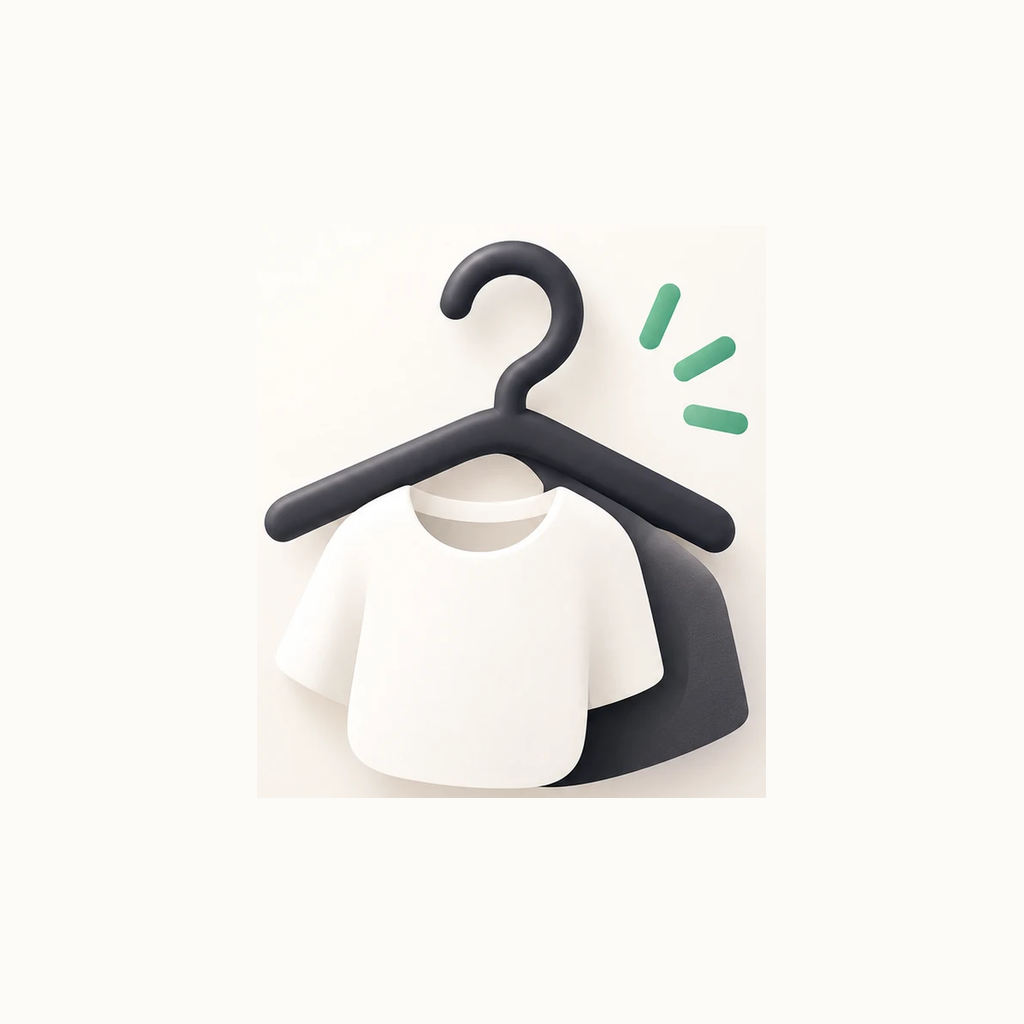
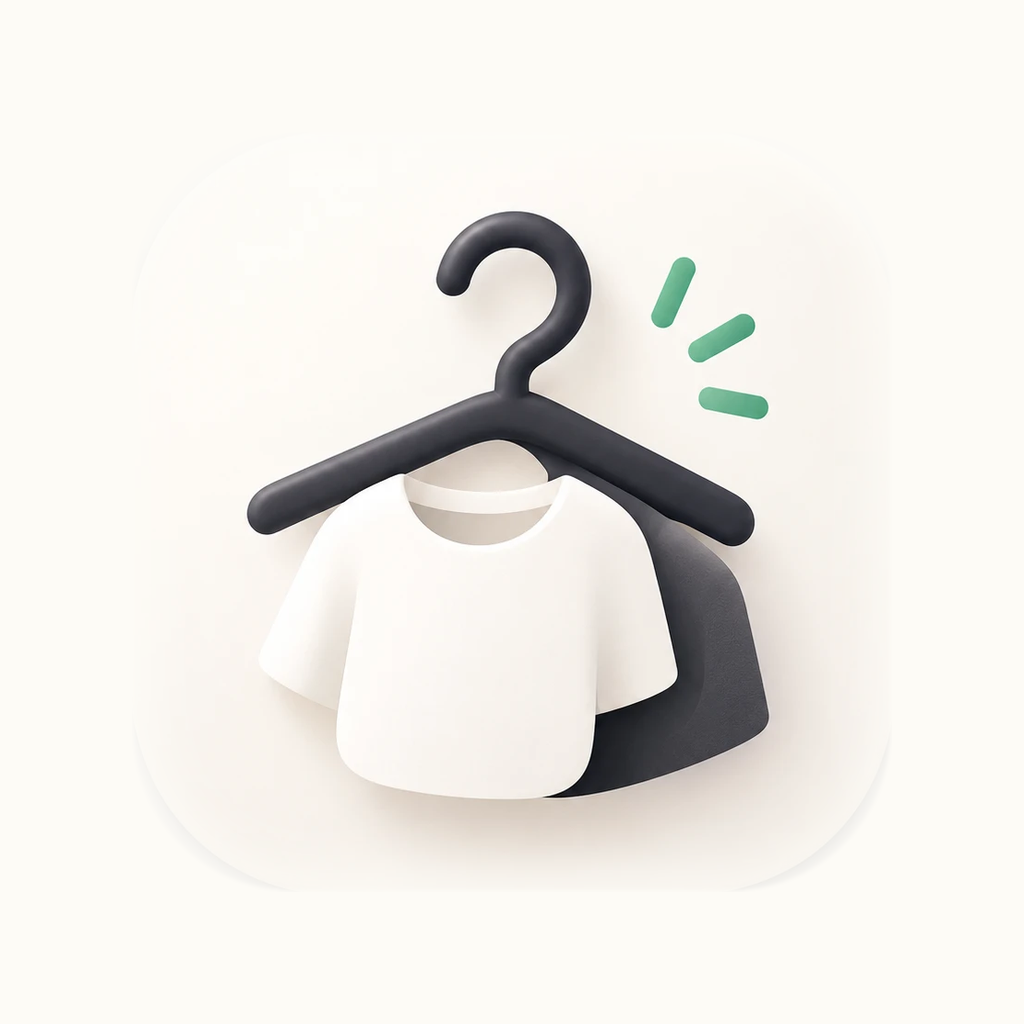
새 앱 아이콘 적용, 정책 웹페이지 생성, Play Console 앱 생성 기록

Changed region(s): [[0.2188, 0.1875, 0.8125, 0.8438], [0.3125, 0.5938, 0.375, 0.75]]

diff --git a/docs/legal/privacy.html b/docs/legal/privacy.html
@@ -1,0 +1,37 @@
+<!doctype html>
+<html lang="ko">
+<head>
+<meta charset="utf-8">
+<meta name="viewport" content="width=device-width, initial-scale=1">
+<title>개인정보 처리방침 · WearLog</title>
+<style>
+  :root { color-scheme: light dark; --bg: #F8F7F4; --card: #fff; --text: #1A1A1F; --sub: #6B6B76; --accent: #1A1A1A; }
+  @media (prefers-color-scheme: dark) { :root { --bg: #111114; --card: #1C1C21; --text: #F2F2F5; --sub: #A0A0AB; --accent: #F2F2F5; } }
+  body { margin: 0; background: var(--bg); color: var(--text); font: 16px/1.65 -apple-system, 'Apple SD Gothic Neo', 'Pretendard', 'Malgun Gothic', sans-serif; }
+  main { max-width: 720px; margin: 0 auto; padding: 32px 16px 64px; }
+  h1 { font-size: 26px; margin: 0 0 4px; } .date { color: var(--sub); font-size: 14px; margin: 0 0 24px; }
+  section { background: var(--card); border-radius: 16px; padding: 16px 20px; margin: 0 0 12px; }
+  h2 { font-size: 17px; margin: 0 0 6px; } p { margin: 0; word-break: keep-all; overflow-wrap: anywhere; }
+  a { color: var(--accent); } .brand { color: var(--accent); font-weight: 800; letter-spacing: -0.02em; }
+</style>
+</head>
+<body><main>
+<p class="brand">WearLog</p>
+<h1>개인정보 처리방침</h1>
+<p class="date">시행일 2026-10-28</p>
+<section><h2>요약</h2><p>WearLog의 옷장·코디·착용 기록·취향은 모두 이 기기 안에만 저장돼요. 날씨를 불러올 때는 약 5km 단위 격자 번호만, 커뮤니티에 로그인하거나 코디를 직접 공개할 때만 아래 정보가 서버로 가요. 로그인하지 않으면 계정 정보는 어디에도 저장되지 않아요.</p></section>
+<section><h2>1. 기기 안에서만 처리되는 정보</h2><p>옷 사진(앱이 만든 축소·재인코딩 사본), 옷 이름·카테고리·색·브랜드·사이즈·가격·구매일·메모, 코디와 캔버스 배치, 착용 기록과 착용당 비용(CPW), 취향 설정, 직접 고른 지역은 이 기기의 앱 저장소에만 있어요. 사진첩의 원본 사진은 읽기만 하고 바꾸거나 지우지 않으며, 사진의 촬영 위치(GPS) 정보는 저장하지 않아요. 다른 앱에서 "공유 → WearLog"로 받은 사진·링크도 등록 화면에만 쓰이고 서버로 보내지 않아요.</p></section>
+<section><h2>2. 위치와 날씨</h2><p>"내 주변 날씨"를 누를 때만 현재 위치를 한 번 읽어요(백그라운드 위치는 요청하지 않아요). 위치는 기기 안에서 기상청 격자 번호(약 5km 단위)로 바꾼 뒤 바로 버리고, 날씨 서버에는 격자 번호만 보내요. 날씨 서버는 이 요청을 기상청 단기예보 서비스에 전달하며, 위치·격자 번호를 사용자와 연결해 저장하지 않아요. 지역을 직접 고르면 위치를 읽지 않아요.</p></section>
+<section><h2>3. 쇼핑몰 링크로 가져오기</h2><p>상품 링크를 붙여 넣거나 공유하면 기기가 그 쇼핑몰 페이지와 상품 사진을 직접 요청해 이름·브랜드·가격을 읽어요. WearLog 서버를 거치지 않으며, 이때 쇼핑몰은 일반 웹 접속과 같은 정보(IP 주소 등)를 받아요. 가져온 사진은 개인 옷장 기록용으로 기기에만 저장돼요.</p></section>
+<section><h2>4. 커뮤니티 이용 시 처리하는 개인정보</h2><p>· 이메일 로그인: 이메일 주소<br>· 카카오 로그인: 카카오 회원 식별자, 닉네임, 프로필 사진(선택), 카카오계정 이메일(선택)<br>· Google 로그인: Google 계정 식별자, 이메일 주소, 이름·프로필 사진 주소<br>· 공통: 공개 핸들, 사용자가 공개를 확정한 사진의 공유용 사본(메타데이터 제거·축소본)과 미리보기, 스타일 태그·상황, 원하면 대략적인 날씨 문구(지역 제외), 하트, 신고, 차단 기록<br>· 자동 생성: 로그인 보안을 위한 접속 기록(IP 주소, 접속 시각)<br>소셜 로그인으로 받은 이름·프로필 사진은 인증 서버에만 저장되고 앱에 공개되지 않아요. 게시물에는 @핸들만 표시돼요. 옷장·착용 기록·취향은 로그인해도 업로드되지 않아요.</p></section>
+<section><h2>5. 이용 목적</h2><p>회원 식별과 로그인, 코디 게시·하트·신고·차단 기능 제공, 운영 정책 위반 대응과 분쟁 처리, 서비스 보안 유지, 날씨 기반 코디 추천.</p></section>
+<section><h2>6. 보유 및 파기</h2><p>계정을 삭제하면 게시물·공유 이미지·하트·차단 기록·프로필·로그인 계정을 지체 없이 삭제해요. 내가 낸 신고는 운영 기록으로 남기되 작성자 정보는 지워요. 접속 기록은 서버 제공자의 로그 보관 기간이 지나면 자동 삭제돼요. 기기 안의 데이터는 설정 &gt; 기기 데이터 전체 삭제로 언제든 지울 수 있고, 앱을 삭제해도 지워져요.</p></section>
+<section><h2>7. 처리 위탁 및 국외 이전</h2><p>· 수탁자: Supabase, Inc.(미국) — 데이터베이스·인증·이미지 저장·날씨 중계 서버 운영. <a href="https://supabase.com/privacy">https://supabase.com/privacy</a><br>· 저장 위치: 대한민국 서울(AWS ap-northeast-2)<br>· 이전 일시·방법: 로그인·게시·하트·신고 등 커뮤니티 기능이나 날씨 불러오기를 쓸 때마다 암호화된 네트워크로 전송<br>· 이전 항목: 4번의 커뮤니티 항목, 날씨 요청의 격자 번호<br>· 보유 기간: 계정 삭제 시까지(날씨 요청은 저장하지 않음)<br>· 인증 메일 발송: Supabase, Inc. (기본 메일 발송), 미국 — 이메일 로그인 시 이메일 주소와 인증 코드<br>거부 방법: 커뮤니티에 로그인하지 않고 날씨를 직접 고르면 아무 정보도 전송되지 않으며, 옷장·코디·기록은 그대로 쓸 수 있어요.</p></section>
+<section><h2>8. 만 14세 미만 아동</h2><p>커뮤니티 계정은 만 14세 이상만 만들 수 있어요. 만 14세 미만은 로그인할 수 없고, 계정이 필요 없는 기기 안 기능만 쓸 수 있어요. 만 14세 미만의 계정을 알게 되면 삭제해요.</p></section>
+<section><h2>9. 이용자의 권리</h2><p>언제든 개인정보 열람·정정·삭제·처리 정지를 요구할 수 있어요. 앱에서 게시물 삭제(설정 &gt; 내 게시물), 계정 삭제(커뮤니티 계정 &gt; 계정 삭제), 기기 데이터 삭제(설정)를 바로 할 수 있고, 그 밖의 요청은 아래 연락처로 보내 주세요.</p></section>
+<section><h2>10. 안전성 확보 조치</h2><p>모든 서버 통신은 HTTPS로 암호화해요. 데이터베이스는 행 단위 접근 제어로 본인 데이터만 수정할 수 있게 했어요. 비밀번호를 쓰지 않는 로그인 방식이라 비밀번호를 저장하지 않아요. 공개되는 사진은 원본이 아니라 촬영 위치 등 메타데이터를 제거하고 다시 만든 사본이에요. 기상청 서비스 키 등 비밀 값은 서버에만 두고 앱에 넣지 않아요.</p></section>
+<section><h2>11. 개인정보 보호책임자</h2><p>Forest_LIM · dlacoaud96@gmail.com</p></section>
+<section><h2>12. 권익 침해 구제</h2><p>개인정보 침해 상담·신고: 개인정보침해신고센터(국번 없이 118, privacy.kisa.or.kr), 개인정보분쟁조정위원회(1833-6972, www.kopico.go.kr)</p></section>
+<section><h2>13. 변경</h2><p>내용이 바뀌면 앱과 이 페이지에 시행일과 함께 알려요.</p></section>
+</main></body>
+</html>

diff --git a/docs/legal/terms.html b/docs/legal/terms.html
@@ -1,0 +1,31 @@
+<!doctype html>
+<html lang="ko">
+<head>
+<meta charset="utf-8">
+<meta name="viewport" content="width=device-width, initial-scale=1">
+<title>이용약관 · WearLog</title>
+<style>
+  :root { color-scheme: light dark; --bg: #F8F7F4; --card: #fff; --text: #1A1A1F; --sub: #6B6B76; --accent: #1A1A1A; }
+  @media (prefers-color-scheme: dark) { :root { --bg: #111114; --card: #1C1C21; --text: #F2F2F5; --sub: #A0A0AB; --accent: #F2F2F5; } }
+  body { margin: 0; background: var(--bg); color: var(--text); font: 16px/1.65 -apple-system, 'Apple SD Gothic Neo', 'Pretendard', 'Malgun Gothic', sans-serif; }
+  main { max-width: 720px; margin: 0 auto; padding: 32px 16px 64px; }
+  h1 { font-size: 26px; margin: 0 0 4px; } .date { color: var(--sub); font-size: 14px; margin: 0 0 24px; }
+  section { background: var(--card); border-radius: 16px; padding: 16px 20px; margin: 0 0 12px; }
+  h2 { font-size: 17px; margin: 0 0 6px; } p { margin: 0; word-break: keep-all; overflow-wrap: anywhere; }
+  a { color: var(--accent); } .brand { color: var(--accent); font-weight: 800; letter-spacing: -0.02em; }
+</style>
+</head>
+<body><main>
+<p class="brand">WearLog</p>
+<h1>이용약관</h1>
+<p class="date">시행일 2026-10-28</p>
+<section><h2>서비스</h2><p>WearLog는 내 옷을 기록하고 코디를 만들며, 취향·날씨 규칙으로 코디를 추천하고, 선택적으로 코디 사진을 커뮤니티에 공개해 하트로 공감받는 서비스예요. 추천과 날씨 정보는 참고용이며 정확성을 보장하지 않아요. 날씨 자료 출처: 기상청.</p></section>
+<section><h2>이용 연령</h2><p>옷장·코디·추천은 누구나 계정 없이 쓸 수 있어요. 커뮤니티 계정은 만 14세 이상만 만들 수 있어요.</p></section>
+<section><h2>샘플 콘텐츠</h2><p>앱에 들어 있는 샘플 옷·샘플 코디·샘플 게시물은 체험용 예시예요. 실제 사용자의 게시물이나 판매 상품이 아니며, 착용 기록·통계에 포함되지 않아요.</p></section>
+<section><h2>사용자 콘텐츠</h2><p>게시한 사진의 권리는 사용자에게 있어요. 사용자는 사진을 올릴 권리와 사진 속 인물의 동의를 확보해야 해요. 쇼핑몰에서 가져온 상품 사진 등 다른 사람의 저작물을 커뮤니티에 올리면 안 돼요. WearLog는 서비스 제공(표시·저장·축소본 생성)에 필요한 범위에서만 이용해요.</p></section>
+<section><h2>금지 행위</h2><p>노출·성적 콘텐츠, 혐오·괴롭힘, 타인 개인정보 노출, 사칭, 저작권 침해, 광고·스팸을 금지해요. 위반 게시물은 숨김·삭제되고 반복 위반 계정은 게시가 제한되거나 삭제될 수 있어요.</p></section>
+<section><h2>계정 삭제</h2><p>커뮤니티 계정 화면에서 언제든 계정과 게시물을 삭제할 수 있어요.</p></section>
+<section><h2>서비스 변경과 책임</h2><p>무료로 제공되는 서비스로, 커뮤니티·날씨 기능은 운영 사정에 따라 바뀌거나 중단될 수 있어요. 기기 안의 사진 원본은 앱이 수정하거나 삭제하지 않아요. 관련 법령이 허용하는 범위에서 고의·중과실이 없는 손해에 대해 책임을 지지 않아요.</p></section>
+<section><h2>문의</h2><p>문의: dlacoaud96@gmail.com</p></section>
+</main></body>
+</html>

diff --git a/docs/legal/guidelines.html b/docs/legal/guidelines.html
@@ -1,0 +1,28 @@
+<!doctype html>
+<html lang="ko">
+<head>
+<meta charset="utf-8">
+<meta name="viewport" content="width=device-width, initial-scale=1">
+<title>커뮤니티 가이드라인 · WearLog</title>
+<style>
+  :root { color-scheme: light dark; --bg: #F8F7F4; --card: #fff; --text: #1A1A1F; --sub: #6B6B76; --accent: #1A1A1A; }
+  @media (prefers-color-scheme: dark) { :root { --bg: #111114; --card: #1C1C21; --text: #F2F2F5; --sub: #A0A0AB; --accent: #F2F2F5; } }
+  body { margin: 0; background: var(--bg); color: var(--text); font: 16px/1.65 -apple-system, 'Apple SD Gothic Neo', 'Pretendard', 'Malgun Gothic', sans-serif; }
+  main { max-width: 720px; margin: 0 auto; padding: 32px 16px 64px; }
+  h1 { font-size: 26px; margin: 0 0 4px; } .date { color: var(--sub); font-size: 14px; margin: 0 0 24px; }
+  section { background: var(--card); border-radius: 16px; padding: 16px 20px; margin: 0 0 12px; }
+  h2 { font-size: 17px; margin: 0 0 6px; } p { margin: 0; word-break: keep-all; overflow-wrap: anywhere; }
+  a { color: var(--accent); } .brand { color: var(--accent); font-weight: 800; letter-spacing: -0.02em; }
+</style>
+</head>
+<body><main>
+<p class="brand">WearLog</p>
+<h1>커뮤니티 가이드라인</h1>
+<p class="date">시행일 2026-10-28</p>
+<section><h2>오늘의 베스트 착장은</h2><p>서로의 코디에서 아이디어를 얻는 공간이에요. 하트만 있고 댓글·DM·싫어요·순위표·외모 점수는 없어요. 베스트 착장은 하트 수가 아니라 운영자가 날씨와 스타일 다양성을 보고 골라요.</p></section>
+<section><h2>올리지 말아 주세요</h2><p>· 노출·성적 콘텐츠, 미성년자를 위험하게 하는 콘텐츠<br>· 혐오·괴롭힘<br>· 다른 사람의 얼굴·개인정보를 동의 없이 담은 사진, 집·학교 등 위치를 알 수 있는 정보<br>· 쇼핑몰 상품 사진 등 다른 사람의 저작물<br>· 광고·홍보·외부 판매 유도</p></section>
+<section><h2>게시 규칙</h2><p>게시물은 운영자 확인 후 공개될 수 있어요. 하루에 올릴 수 있는 게시물 수에는 제한이 있어요. 내 게시물은 언제든 직접 삭제할 수 있어요.</p></section>
+<section><h2>신고와 차단</h2><p>게시물 상세에서 신고하거나 계정을 차단할 수 있어요. 서로 다른 사용자의 신고가 여러 번 쌓이면 확인 전까지 자동으로 숨겨져요. 저작권 침해 신고도 같은 메뉴에서 접수돼요. 차단하면 서로의 게시물이 보이지 않고, 차단 목록에서 언제든 해제할 수 있어요.</p></section>
+<section><h2>문의</h2><p>문의: dlacoaud96@gmail.com</p></section>
+</main></body>
+</html>

diff --git a/docs/legal/account-deletion.html b/docs/legal/account-deletion.html
@@ -1,0 +1,27 @@
+<!doctype html>
+<html lang="ko">
+<head>
+<meta charset="utf-8">
+<meta name="viewport" content="width=device-width, initial-scale=1">
+<title>WearLog 계정 및 데이터 삭제 · WearLog</title>
+<style>
+  :root { color-scheme: light dark; --bg: #F8F7F4; --card: #fff; --text: #1A1A1F; --sub: #6B6B76; --accent: #1A1A1A; }
+  @media (prefers-color-scheme: dark) { :root { --bg: #111114; --card: #1C1C21; --text: #F2F2F5; --sub: #A0A0AB; --accent: #F2F2F5; } }
+  body { margin: 0; background: var(--bg); color: var(--text); font: 16px/1.65 -apple-system, 'Apple SD Gothic Neo', 'Pretendard', 'Malgun Gothic', sans-serif; }
+  main { max-width: 720px; margin: 0 auto; padding: 32px 16px 64px; }
+  h1 { font-size: 26px; margin: 0 0 4px; } .date { color: var(--sub); font-size: 14px; margin: 0 0 24px; }
+  section { background: var(--card); border-radius: 16px; padding: 16px 20px; margin: 0 0 12px; }
+  h2 { font-size: 17px; margin: 0 0 6px; } p { margin: 0; word-break: keep-all; overflow-wrap: anywhere; }
+  a { color: var(--accent); } .brand { color: var(--accent); font-weight: 800; letter-spacing: -0.02em; }
+</style>
+</head>
+<body><main>
+<p class="brand">WearLog</p>
+<h1>WearLog 계정 및 데이터 삭제</h1>
+<p class="date">시행일 2026-10-28</p>
+<section><h2>앱에서 삭제하기</h2><p>WearLog 앱 → 프로필 → 설정 → 커뮤니티 계정 → 커뮤니티 계정 삭제. 바로 처리돼요.</p></section>
+<section><h2>앱 없이 요청하기</h2><p>dlacoaud96@gmail.com로 커뮤니티 핸들과 로그인에 쓴 이메일(또는 카카오·Google 로그인 여부)을 적어 "계정 삭제 요청"을 보내 주세요. 본인 확인 후 7일 안에 삭제하고 결과를 회신해요.</p></section>
+<section><h2>삭제되는 데이터</h2><p>로그인 계정, 프로필(핸들), 게시물과 서버에 올린 공유 이미지·미리보기, 하트, 차단 기록.</p></section>
+<section><h2>남는 데이터</h2><p>내가 낸 신고는 다른 사용자 보호를 위해 운영 기록으로 남지만 작성자 정보는 지워요. 로그인 보안용 접속 기록은 서버 제공자의 로그 보관 기간이 지나면 자동 삭제돼요. 옷장·코디·착용 기록은 서버에 없으므로 앱의 설정 &gt; 기기 데이터 전체 삭제 또는 앱 삭제로 지울 수 있어요.</p></section>
+</main></body>
+</html>

diff --git a/docs/legal/index.html b/docs/legal/index.html
@@ -1,0 +1,27 @@
+<!doctype html>
+<html lang="ko">
+<head>
+<meta charset="utf-8">
+<meta name="viewport" content="width=device-width, initial-scale=1">
+<title>정책 문서 · WearLog</title>
+<style>
+  :root { color-scheme: light dark; --bg: #F8F7F4; --card: #fff; --text: #1A1A1F; --sub: #6B6B76; --accent: #1A1A1A; }
+  @media (prefers-color-scheme: dark) { :root { --bg: #111114; --card: #1C1C21; --text: #F2F2F5; --sub: #A0A0AB; --accent: #F2F2F5; } }
+  body { margin: 0; background: var(--bg); color: var(--text); font: 16px/1.65 -apple-system, 'Apple SD Gothic Neo', 'Pretendard', 'Malgun Gothic', sans-serif; }
+  main { max-width: 720px; margin: 0 auto; padding: 32px 16px 64px; }
+  h1 { font-size: 26px; margin: 0 0 4px; } .date { color: var(--sub); font-size: 14px; margin: 0 0 24px; }
+  section { background: var(--card); border-radius: 16px; padding: 16px 20px; margin: 0 0 12px; }
+  h2 { font-size: 17px; margin: 0 0 6px; } p { margin: 0; word-break: keep-all; overflow-wrap: anywhere; }
+  a { color: var(--accent); } .brand { color: var(--accent); font-weight: 800; letter-spacing: -0.02em; }
+</style>
+</head>
+<body><main>
+<p class="brand">WearLog</p>
+<h1>정책 문서</h1>
+<p class="date">시행일 2026-10-28</p>
+<section><h2>개인정보 처리방침</h2><p><a href="privacy.html">privacy.html</a></p></section>
+<section><h2>이용약관</h2><p><a href="terms.html">terms.html</a></p></section>
+<section><h2>커뮤니티 가이드라인</h2><p><a href="guidelines.html">guidelines.html</a></p></section>
+<section><h2>WearLog 계정 및 데이터 삭제</h2><p><a href="account-deletion.html">account-deletion.html</a></p></section>
+</main></body>
+</html>

diff --git a/docs/RELEASE_CHECKLIST.md b/docs/RELEASE_CHECKLIST.md
@@ -44,6 +44,7 @@
 - [ ] 실기기에서 카카오·Google·이메일 로그인 왕복, 두 계정으로 게시→하트→신고→차단→삭제→계정 삭제
 
 ## D. 스토어
+- [x] Play Console 앱 생성(2026-11-07, Forest_LIM 계정): 이름 WearLog, 패키지 `app.wearlog.mobile`, 기본 언어 ko-KR, 앱·무료(공개 후 유료 전환 불가). 앱 ID 4975901293107440991
 - [ ] `node scripts/build-legal-site.mjs` → GitHub Pages(`main` `/docs`) → 처리방침 URL `…/WearLog/legal/privacy.html`, Play 계정 삭제 URL `…/legal/account-deletion.html`
 - [ ] Play 데이터 보안 양식: 위치(대략, 선택·전송은 격자만·저장 안 함), 사진(기기 내 처리, 게시 시만 업로드), 이메일·사용자 ID(커뮤니티 선택), 앱 활동(하트·신고)
 - [ ] 콘텐츠 등급: 사용자 생성 콘텐츠·사용자 간 공유 "예", 타겟 연령 만 14세 이상
